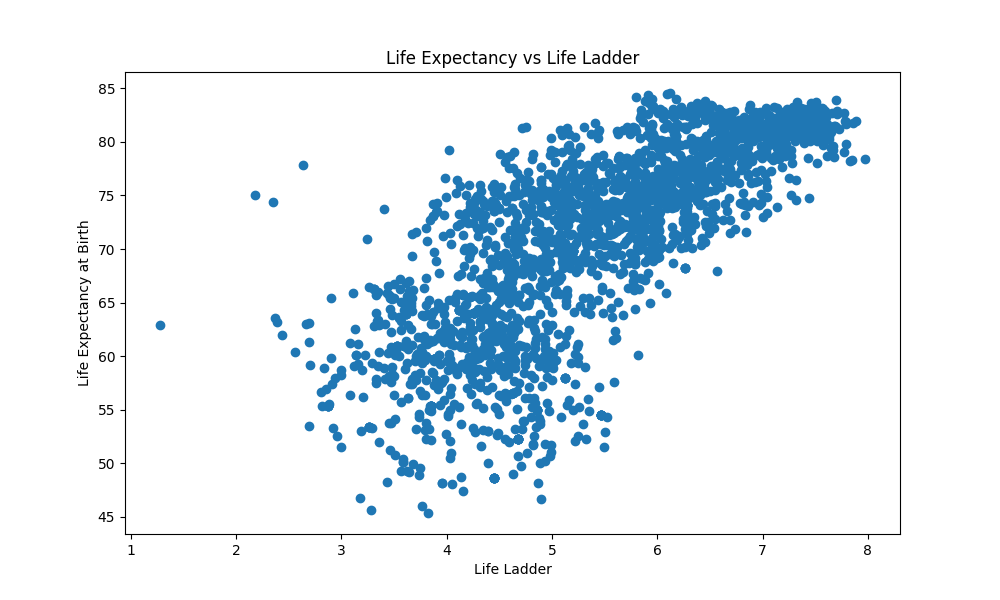
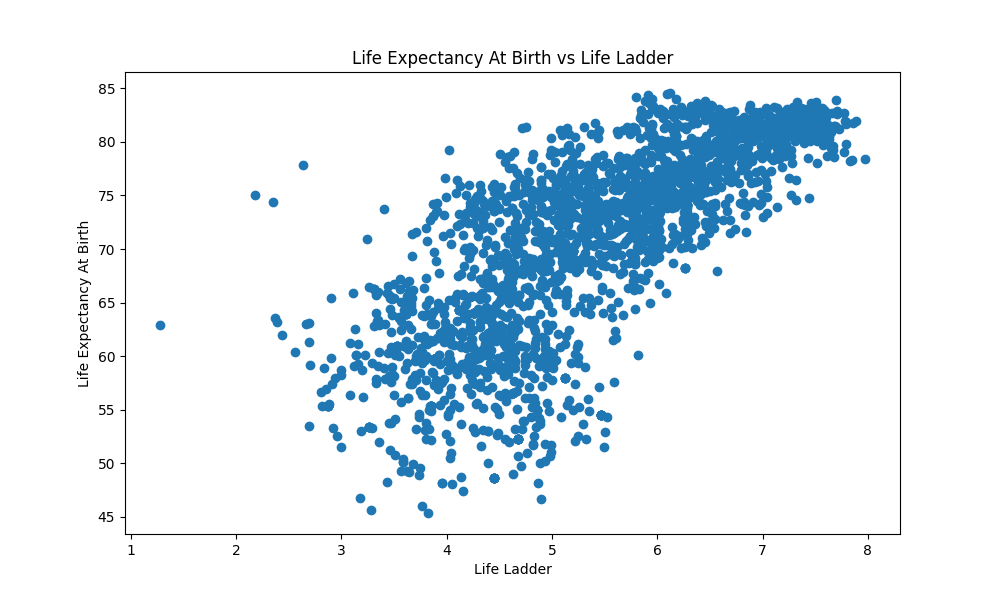
Add Life Ladder Welch Anova test and more visualizations for regional data

Changed region(s): [[0.341, 0.09, 0.682, 0.12], [0.062, 0.36, 0.093, 0.63]]

diff --git a/data-regional-stat-tests.py b/data-regional-stat-tests.py
@@ -1,54 +1,63 @@
 import pandas as pd
 from scipy import stats
 import pingouin as pg
+import seaborn as sns
+import matplotlib.pyplot as plt
 
 data = pd.read_csv("merged_data_imputed.csv")
 # differences in life expectancy across continents (17 observations in each group)
 
-data_grouped = data.groupby(["Continent", "Year"]).mean(numeric_only=True).reset_index()
 
-life_expect_continents = data_grouped[["Continent", "Year", "Life Expectancy At Birth"]]
-
-#print(data_grouped.to_string())
-print(life_expect_continents.to_string())
-
-for continent in life_expect_continents["Continent"].unique():
-    p = stats.normaltest(life_expect_continents[life_expect_continents["Continent"] == continent]["Life Expectancy At Birth"]).pvalue
-    print(f'p value for {continent} is: {p}')
-
-grouped_data_values = [life_expect_continents[life_expect_continents["Continent"] == continent]["Life Expectancy At Birth"]
-                       for continent in life_expect_continents["Continent"].unique()]
+def plot_boxplot(data, dependent_variable):
+    plt.figure(figsize=(10, 6))
+    sns.boxplot(x="Continent", y=dependent_variable, data=data)
+    plt.title(f'Boxplot of {dependent_variable} by Continent')
+    plt.xticks(rotation=50)
+    plt.savefig(f'visualizations/regional/boxplots/boxploy_regional_{dependent_variable}_stat_test.png')
 
 
-africa = life_expect_continents[life_expect_continents["Continent"] == "Africa"]["Life Expectancy At Birth"]
-asia = life_expect_continents[life_expect_continents["Continent"] == "Asia"]["Life Expectancy At Birth"]
-europe = life_expect_continents[life_expect_continents["Continent"] == "Europe"]["Life Expectancy At Birth"]
-n_america = life_expect_continents[life_expect_continents["Continent"] == "North America"]["Life Expectancy At Birth"]
-oceania = life_expect_continents[life_expect_continents["Continent"] == "Oceania"]["Life Expectancy At Birth"]
-s_america = life_expect_continents[life_expect_continents["Continent"] == "South America"]["Life Expectancy At Birth"]
+def perform_regional_test(data, dependent_variable):
+    data_grouped = data.groupby(["Continent", "Year"]).mean(numeric_only=True).reset_index()
 
-p = stats.levene(africa, asia, europe, n_america, oceania, s_america).pvalue
+    data_relevant = data_grouped[["Continent", "Year", dependent_variable]]
 
-print(f"levene test p {p}")
+    print(f"Results for {dependent_variable}:\n")
+    #print(data_grouped.to_string())
+    #print(data_relevant.to_string())
 
-# so groups are normal but variances are not equal, proceed with Welch's ANOVA test
-# seems like a good fit according to: https://scales.arabpsychology.com/stats/how-to-perform-welchs-anova-in-python-step-by-step/
+    for continent in data_relevant["Continent"].unique():
+        p = stats.normaltest(data_relevant[data_relevant["Continent"] == continent][dependent_variable]).pvalue
+        print(f'p value for {continent} is: {p}')
 
-# https://pingouin-stats.org/build/html/generated/pingouin.welch_anova.html
-aov = pg.welch_anova(dv="Life Expectancy At Birth", between="Continent", data=life_expect_continents)
-print(aov)
+    grouped_data_values = [data_relevant[data_relevant["Continent"] == continent][dependent_variable]
+                        for continent in data_relevant["Continent"].unique()]
 
-# p value is very small: 5.150693e-38 so there is significant difference in life expectancy across continents
-# we reject H0 that all continent life expctenacy means are equal
-print(f"P value for Welch's ANOVA {aov['p-unc']}")
+    levene_p = stats.levene(*grouped_data_values).pvalue
+    print(f"Levene's test p-value: {levene_p}")
 
-# post hoc can do Games-Howell
-# source: https://statisticsbyjim.com/anova/welchs-anova-compared-to-classic-one-way-anova/
+    # so groups are normal but variances are not equal, proceed with Welch's ANOVA test
+    # seems like a good fit according to: https://scales.arabpsychology.com/stats/how-to-perform-welchs-anova-in-python-step-by-step/
 
-# most comparisons have p < 0.05 so there is statistically significant differences. 
-# more analysis needed
-games_howell = pg.pairwise_gameshowell(dv="Life Expectancy At Birth", between="Continent", data=life_expect_continents)
-print(games_howell)
+    # https://pingouin-stats.org/build/html/generated/pingouin.welch_anova.html
+    aov = pg.welch_anova(dv=dependent_variable, between="Continent", data=data_relevant)
+    print(aov)
+
+    # p value is very small: 5.150693e-38 so there is significant difference in life expectancy across continents
+    # we reject H0 that all continent life expctenacy means are equal
+    print(f"P value for Welch's ANOVA {aov['p-unc']}")
+
+    # post hoc can do Games-Howell
+    # source: https://statisticsbyjim.com/anova/welchs-anova-compared-to-classic-one-way-anova/
+
+    # most comparisons have p < 0.05 so there is statistically significant differences. 
+    # more analysis needed
+    games_howell = pg.pairwise_gameshowell(dv=dependent_variable, between="Continent", data=data_relevant)
+    print(games_howell)
+    print("\n" + "="*50 + "\n")
+
+
+
+perform_regional_test(data, "Life Expectancy At Birth")
 
 '''
                 A              B    mean(A)    mean(B)       diff        se          T         df          pval     hedges
@@ -68,3 +77,43 @@ print(games_howell)
 13  North America  South America  73.527529  74.464209  -0.936681  0.289732  -3.232926  30.855402  3.158396e-02  -1.082690
 14        Oceania  South America  81.817978  74.464209   7.353769  0.283602  25.929921  30.191956  6.661338e-16   8.683798
 '''
+
+# note for Oceania the normaltest does not pass (p=0.02) however we proceed anyway
+    # check graph 
+perform_regional_test(data, "Life Ladder")
+
+'''
+                A              B   mean(A)   mean(B)      diff        se          T         df          pval     hedges
+0          Africa           Asia  4.360442  5.390902 -1.030460  0.025521 -40.377679  26.455928  0.000000e+00 -13.522278
+1          Africa         Europe  4.360442  6.112498 -1.752056  0.047512 -36.876147  23.957323  0.000000e+00 -12.349633
+2          Africa  North America  4.360442  6.110986 -1.750545  0.035196 -49.736670  30.344673  3.108624e-15 -16.656556
+3          Africa        Oceania  4.360442  7.269824 -2.909382  0.032498 -89.524394  31.676761  5.773160e-15 -29.981261
+4          Africa  South America  4.360442  6.035752 -1.675310  0.060323 -27.772362  20.695356  0.000000e+00  -9.300822
+5            Asia         Europe  5.390902  6.112498 -0.721596  0.044263 -16.302381  19.138848  1.547129e-11  -5.459584
+6            Asia  North America  5.390902  6.110986 -0.720084  0.030670 -23.478724  23.020338  4.440892e-15  -7.862904
+7            Asia        Oceania  5.390902  7.269824 -1.878922  0.027532 -68.246201  24.897752  5.662137e-15 -22.855303
+8            Asia  South America  5.390902  6.035752 -0.644850  0.057799 -11.156794  17.780220  2.499418e-08  -3.736353
+9          Europe  North America  6.112498  6.110986  0.001511  0.050465   0.029950  27.586803  1.000000e+00   0.010030
+10         Europe        Oceania  6.112498  7.269824 -1.157326  0.048622 -23.802668  25.433286  0.000000e+00  -7.971391
+11         Europe  South America  6.112498  6.035752  0.076746  0.070333   1.091177  29.684881  8.809975e-01   0.365430
+12  North America        Oceania  6.110986  7.269824 -1.158837  0.036681 -31.592682  31.420992  2.220446e-15 -10.580227
+13  North America  South America  6.110986  6.035752  0.075235  0.062675   1.200391  23.301407  8.322142e-01   0.402005
+14        Oceania  South America  7.269824  6.035752  1.234072  0.061201  20.164303  21.687959  1.909584e-14   6.752922
+'''
+
+columns = data.columns[data.columns.isin(['Year', 'Continent', 'Country Name']) == False]
+
+# group by continent so we can access each group and plot it aganst the feature
+grouped_data = data.groupby('Continent')
+
+for column in columns:
+    plot_boxplot(data, column)
+    plt.figure(figsize=(10, 6))
+    for continent, group in grouped_data:
+        plt.bar(group['Continent'], group[column], alpha=0.8, label=continent)
+
+    plt.xlabel('Continent')
+    plt.ylabel(column)
+    plt.title(f'Bar Plot of {column} by Continent')
+    plt.legend()
+    plt.savefig(f'visualizations/regional/barplots/{column}.png')

diff --git a/data-feature-importance.py b/data-feature-importance.py
@@ -1,4 +1,5 @@
 import pandas as pd
+import os
 from sklearn.model_selection import train_test_split
 from sklearn.ensemble import RandomForestRegressor
 from sklearn.metrics import mean_squared_error, r2_score
@@ -11,14 +12,12 @@ from sklearn.pipeline import make_pipeline
 data = pd.read_csv("merged_data_imputed.csv")
 print(data.head(20))
 
-data_cleaned = data.dropna(subset=['Life Expectancy At Birth'])
-X = data_cleaned.drop(['Life Expectancy At Birth', 'Year', 'Country Name', 'Continent'], axis=1)
-y = data_cleaned['Life Expectancy At Birth']
-
 # Calculate Correlation Matrix
 columns = ['Life Expectancy At Birth', 'Life Ladder', 'Social Support', 
                    'Freedom To Make Life Choices', 'Generosity', 'Perceptions Of Corruption', 
                    'Positive Affect', 'Negative Affect']
+
+# somewhat of a linear relationship for Life Expectancy vs Life Ladder and social support but not for other variables
 
 corr_matrix = data[columns].corr()
 
@@ -27,37 +26,45 @@ sns.heatmap(corr_matrix, annot=True, cmap='coolwarm', vmin=-1, vmax=1, center=0)
 plt.title('Correlation Heatmap')
 plt.savefig("Correlation_Heatmap.png")
 
-# check if assumptions for multiple linear regression is satisified
+def createModel(column_to_predict, visualization_path):
+    data_cleaned = data.dropna(subset=[column_to_predict])
+    X = data_cleaned.drop([column_to_predict, 'Year', 'Country Name', 'Continent'], axis=1)
+    y = data_cleaned[column_to_predict]
+
+    # check if assumptions for multiple linear regression is satisified
     # not satisified
-for column in X.columns:
-    plt.figure(figsize=(10, 6))
-    plt.scatter(X[column], y)
-    plt.xlabel(column)
-    plt.ylabel('Life Expectancy at Birth')
-    plt.title(f'Life Expectancy vs {column}')
-    plt.savefig(f"visualizations/life_expect_vs_feature/Life_vs_{column}")
+    for column in X.columns:
+        plt.figure(figsize=(10, 6))
+        plt.scatter(X[column], y)
+        plt.xlabel(column)
+        plt.ylabel(column_to_predict)
+        plt.title(f'{column_to_predict} vs {column}')
+        visualization_dir = f"visualizations/{visualization_path}_vs_feature"
+        os.makedirs(visualization_dir, exist_ok=True)
+        
+        plt.savefig(f"{visualization_dir}/Life_vs_{column}")
 
-X_train, X_valid, y_train, y_valid = train_test_split(X, y, test_size=0.2, random_state=42)
+    X_train, X_valid, y_train, y_valid = train_test_split(X, y, test_size=0.2, random_state=42)
 
-# somewhat of a linear relationship for Life Expectancy vs Life Ladder and social support but not for other variables
+    # dont need to scale features for random forest but potentially need to if switching the model to something else
+    model = make_pipeline(
+        SimpleImputer(strategy='mean'),
+        MinMaxScaler(),
+        RandomForestRegressor(n_estimators=100, random_state=42)
+    )
 
-# dont need to scale features for random forest but potentially need to if switching the model to something else
-rf_model = make_pipeline(
-    SimpleImputer(strategy='mean'),
-    MinMaxScaler(),
-    RandomForestRegressor(n_estimators=100, random_state=42)
-)
+    model.fit(X_train, y_train)
 
-rf_model.fit(X_train, y_train)
+    y_pred = model.predict(X_valid)
 
-y_pred = rf_model.predict(X_valid)
+    mse = mean_squared_error(y_valid, y_pred)
 
-mse = mean_squared_error(y_valid, y_pred)
+    r2 = r2_score(y_valid, y_pred)
 
-r2 = r2_score(y_valid, y_pred)
+    print(f"Mean Squared Error: {mse}")
+    print(f"R-squared Score: {r2}")
 
-print(f"Mean Squared Error: {mse}")
-print(f"R-squared Score: {r2}")
+    return model, X
 
 # feature_importances_
 # the higher the more important the feature
@@ -65,6 +72,9 @@ print(f"R-squared Score: {r2}")
 # also called Gini importance
 # source: https://scikit-learn.org/stable/modules/generated/sklearn.ensemble.RandomForestRegressor.html
 
+
+print("\nLife Expectancy Feature Ranking")
+rf_model, X = createModel('Life Expectancy At Birth', 'life_expect')
 rf_model = rf_model.named_steps['randomforestregressor']
 
 importances = pd.DataFrame({'feature': X.columns, 'importance': rf_model.feature_importances_})
@@ -73,7 +83,55 @@ print(importances)
 
 # life ladder importance is high, could suggest that the country's overall life ladder score is strongly associated with life expectancy
 
+# feature importance for life expectancy
 
+# feature ranking for life expectancy
+'''
+                        feature  importance
+0                   Life Ladder    0.627672
+5               Positive Affect    0.095920
+1                Social Support    0.068563
+3                    Generosity    0.067294
+2  Freedom To Make Life Choices    0.048751
+4     Perceptions Of Corruption    0.046255
+6               Negative Affect    0.045546
+'''
 
+print("\nLife Ladder Feature Ranking")
+rf_model, X = createModel('Life Ladder', 'life_ladder')
+rf_model = rf_model.named_steps['randomforestregressor']
+
+importances = pd.DataFrame({'feature': X.columns, 'importance': rf_model.feature_importances_})
+importances = importances.sort_values('importance', ascending=False)
+print(importances)
+
+# feature ranking for life ladder
+'''
+0      Life Expectancy At Birth    0.505781
+1                Social Support    0.270890
+5               Positive Affect    0.086501
+4     Perceptions Of Corruption    0.039052
+6               Negative Affect    0.035757
+2  Freedom To Make Life Choices    0.031853
+3                    Generosity    0.030166
+'''
+
+'''
+for life expectancy:
+    - Life Ladder and Life Expectancy are pretty correlated, (linearly related, see visualization)
+        - 0.77 correlation coefficient
+    - Social Support and Life Expectancy are pretty correlated
+        - 0.65 correlation coefficient
+'''
+
+'''
+for life ladder:
+    - Life Expectancy and Life Ladder are pretty correlated, (linearly related, see visualization)
+        - 0.77 correlation coefficient
+    - Social Support and Life Ladder are pretty correlated
+        - 0.74 correlation coefficient
+    - Freedom to make life choices and Life Ladder are somewhat correlated
+        - 0.57 correlation coefficient
+'''
 
 
